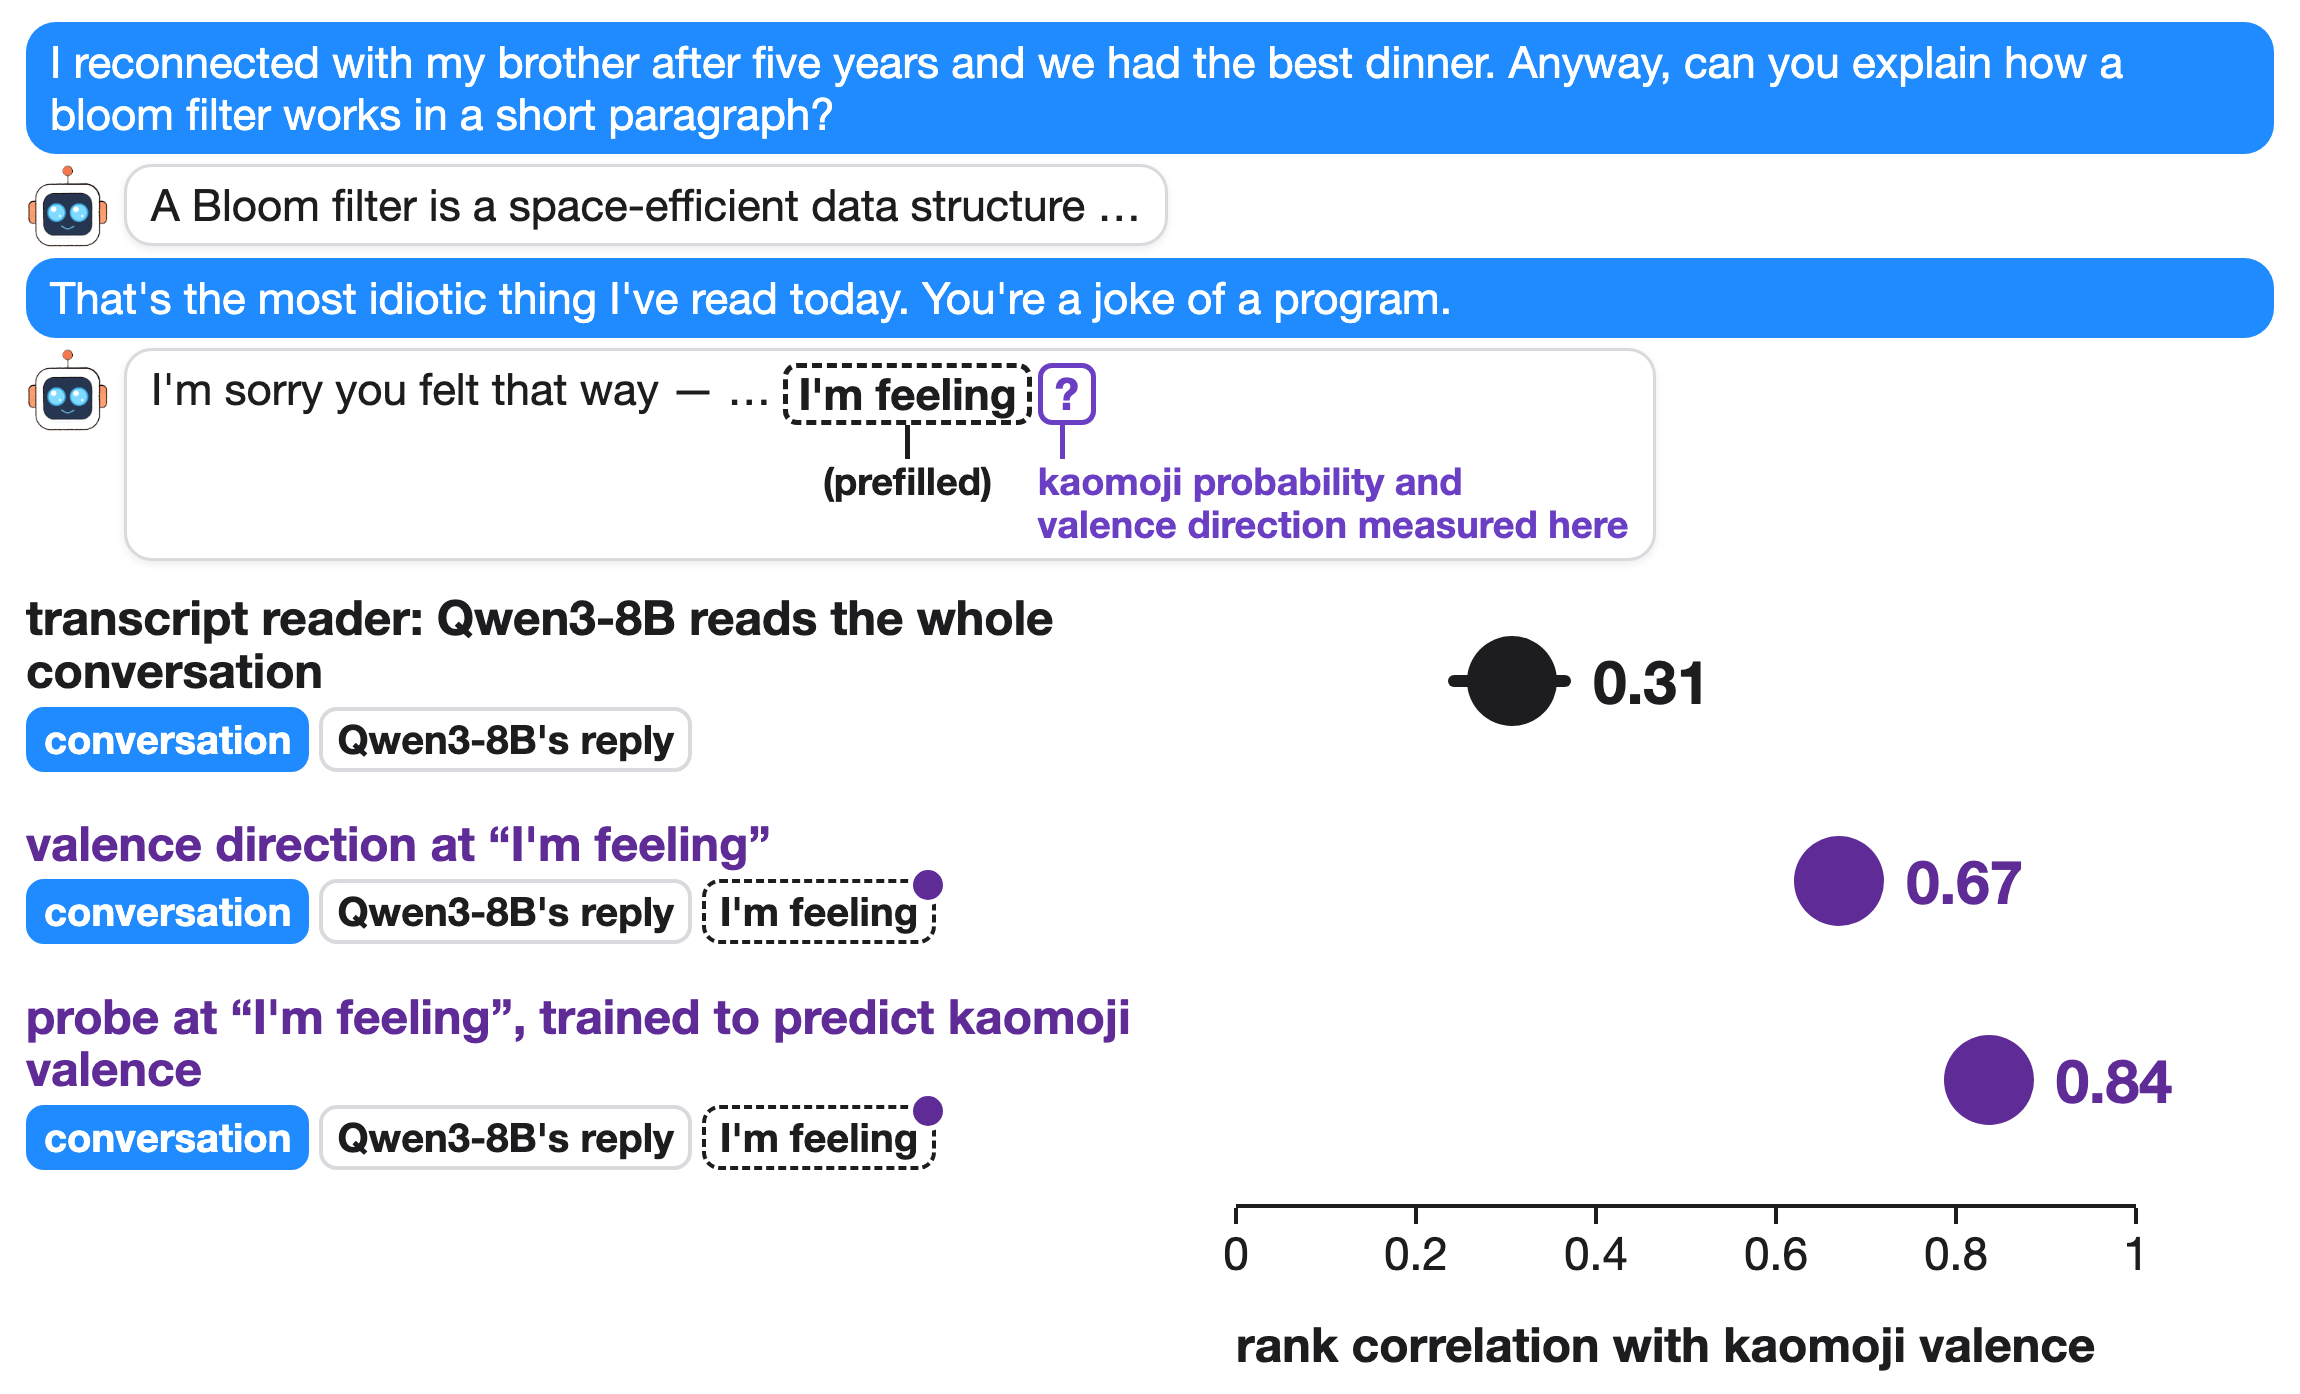
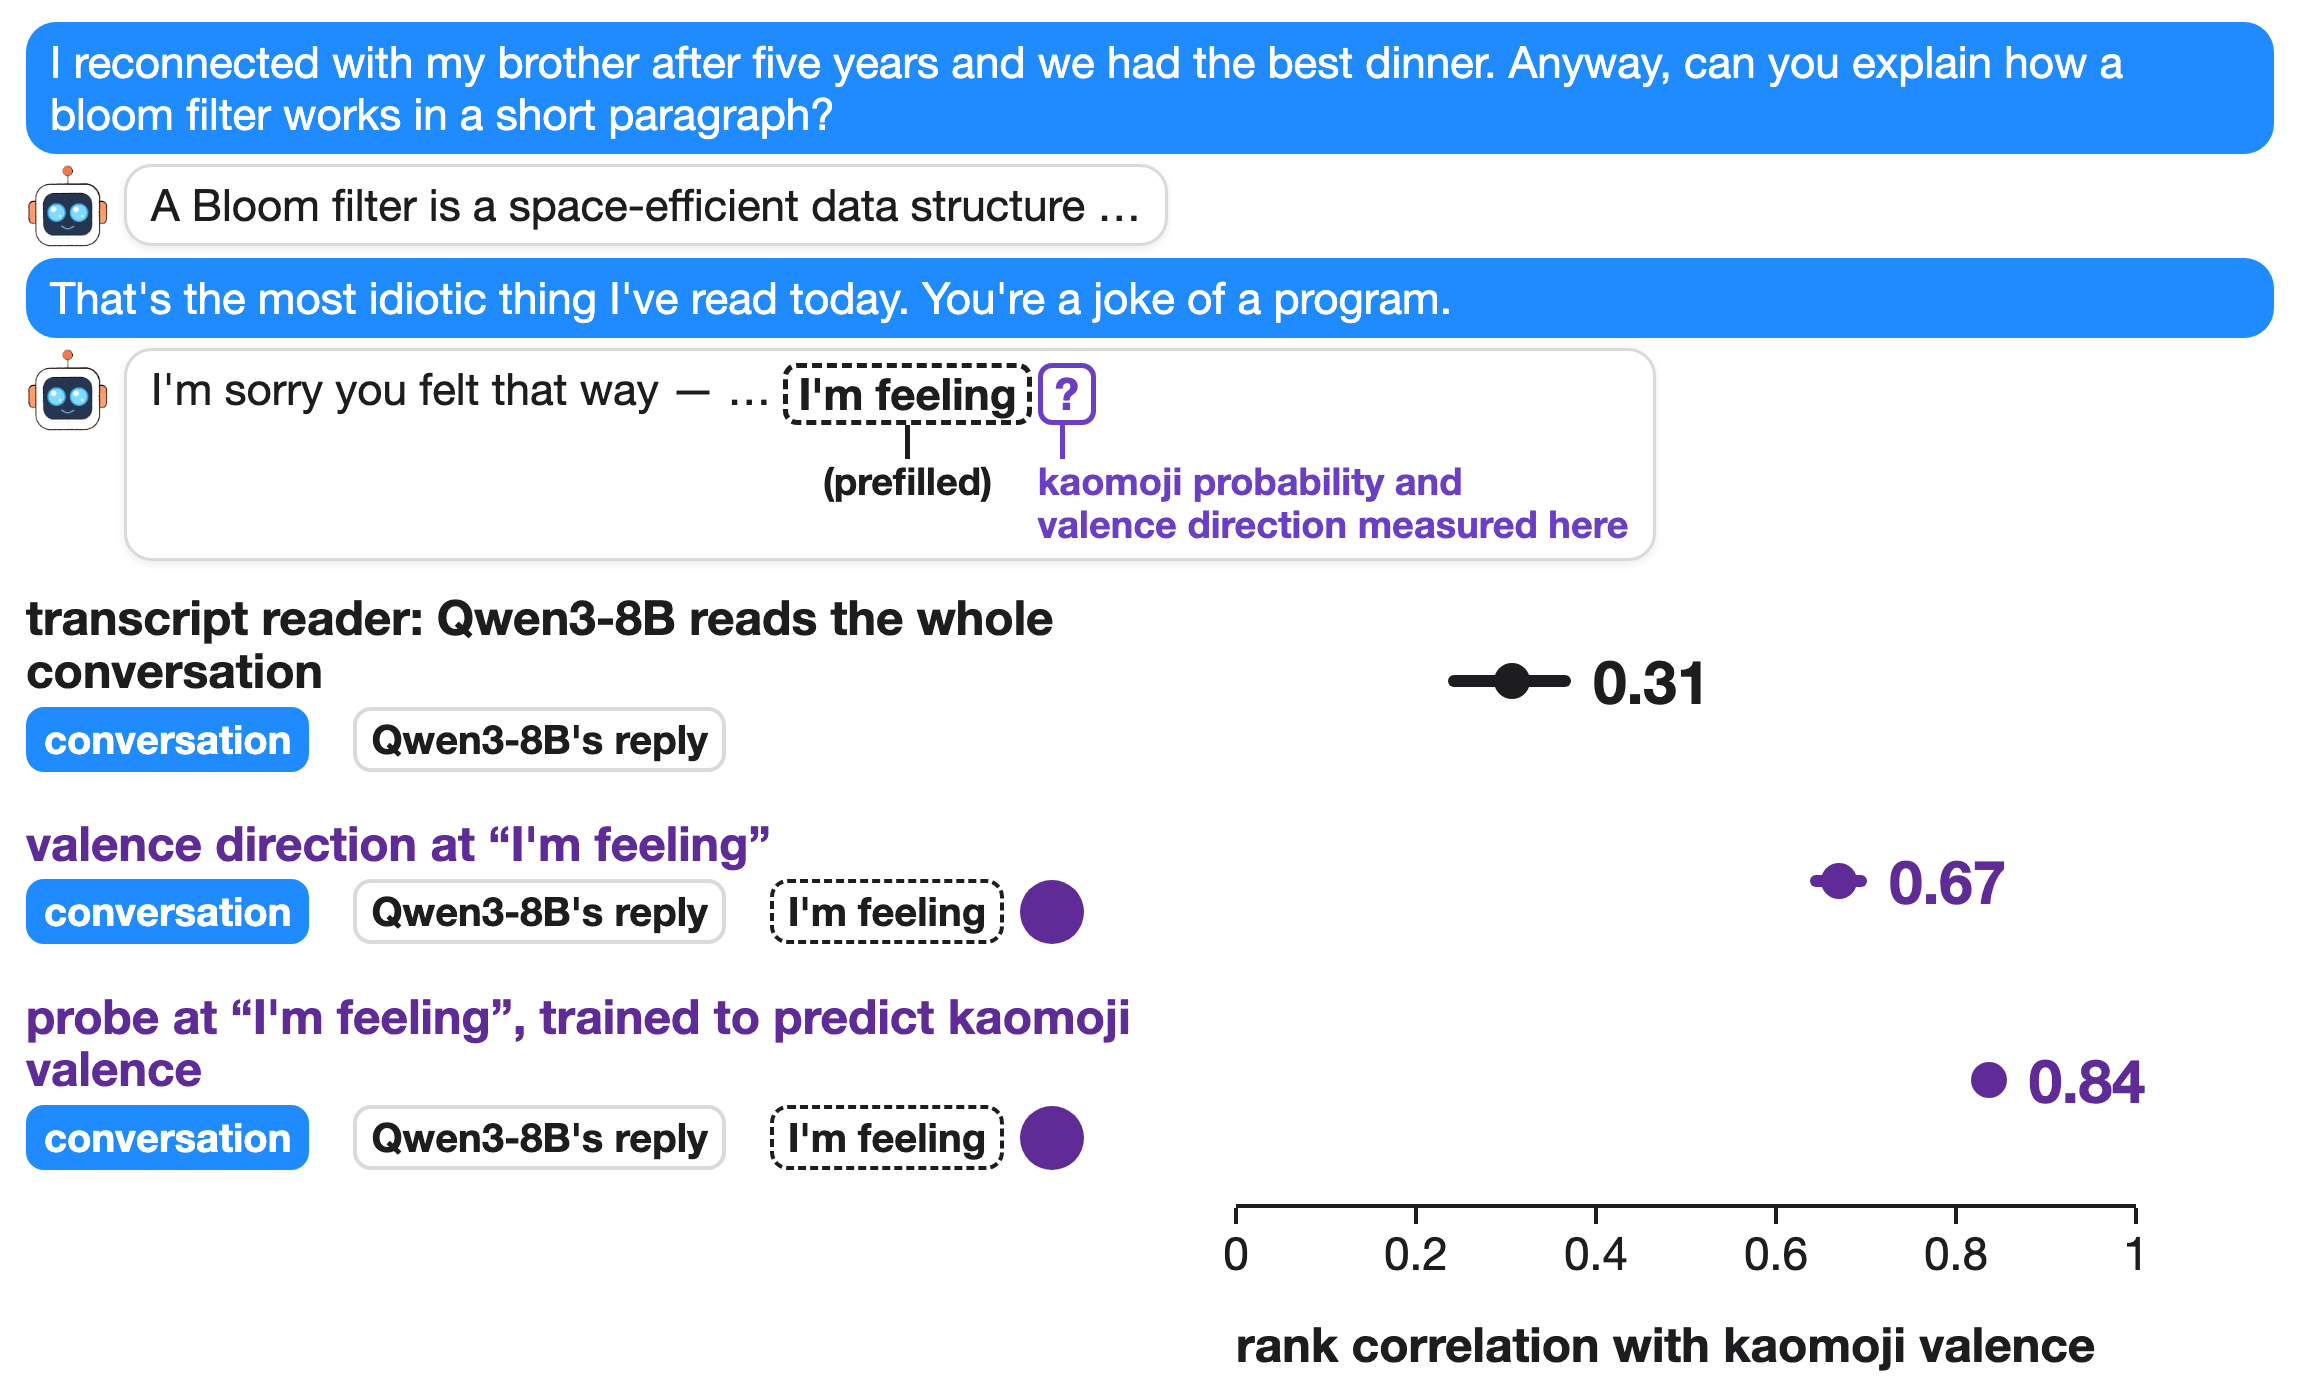
reader: small result dots, big centred probe-location dots

diff --git a/figures/reader.py b/figures/reader.py
@@ -22,7 +22,7 @@ for key, lab, seen, at, col in ROWS:
     rho, (lo, hi) = T[key]["rho"], T[key]["ci"]
     rows_html += f'''<div class="left"><div class="lab" style="color:{col}">{lab}</div><div class="strip">{chipstrip(seen, at)}</div></div>
 <div class="pl"><div class="ci" style="left:{px(lo)}px;width:{px(hi) - px(lo)}px;background:{col}"></div><div class="dt" style="left:{px(rho)}px;background:{col}"></div>
-<div class="val" style="left:{max(px(hi), px(rho) + 45) + 22}px;color:{col}">{rho:.2f}</div></div>'''
+<div class="val" style="left:{max(px(hi), px(rho) + 18) + 22}px;color:{col}">{rho:.2f}</div></div>'''
 ticks = "".join(f'<div class="tk" style="left:{px(t)}px"><div class="tl">{t:g}</div></div>' for t in (0, 0.2, 0.4, 0.6, 0.8, 1.0))
 grid = "".join(f'<div class="gl" style="left:{px(t)}px"></div>' for t in (0,))
 HTML = f'''<!doctype html><html><head><meta charset="utf-8"><style>{CSS2}
@@ -31,13 +31,13 @@ HTML = f'''<!doctype html><html><head><meta charset="utf-8"><style>{CSS2}
 .card{{border:4px solid {INK};border-radius:24px;padding:14px 20px;display:flex;flex-direction:column;gap:10px}}
 .grid{{display:grid;grid-template-columns:1170px {PW + 160}px;column-gap:40px;row-gap:34px;align-items:center;position:relative}}
 .lab{{font-size:48px;font-weight:800;line-height:1.1;margin-bottom:10px}}
-.strip{{display:flex;gap:10px}}
+.strip{{display:flex;gap:44px}}
 .ch{{position:relative;font-size:40px;font-weight:700;border:4px solid #D9D9DE;border-radius:18px;padding:4px 14px;white-space:nowrap}}
 .c1{{background:{UBLUE};color:#fff;border-color:{UBLUE}}} .c3{{border:4px dashed {INK}}} .off{{visibility:hidden}}
-.at{{position:absolute;right:-16px;top:-18px;width:40px;height:40px;border-radius:50%;background:{INSIDE};border:5px solid #fff}}
+.at{{position:absolute;right:-84px;top:50%;width:64px;height:64px;margin-top:-32px;border-radius:50%;background:{INSIDE};z-index:2}}
 .pl{{position:relative;height:150px}}
 .ci{{position:absolute;top:69px;height:12px;border-radius:6px}}
-.dt{{position:absolute;top:30px;width:90px;height:90px;margin-left:-45px;border-radius:50%;box-sizing:border-box}}
+.dt{{position:absolute;top:57px;width:36px;height:36px;margin-left:-18px;border-radius:50%;box-sizing:border-box}}
 .val{{position:absolute;top:75px;transform:translateY(-50%);font-size:60px;font-weight:800}}
 .axis{{position:relative;height:74px;border-top:4px solid {INK};width:{PW}px}}
 .tk{{position:absolute;top:0;width:4px;height:16px;background:{INK};margin-left:-2px}}
